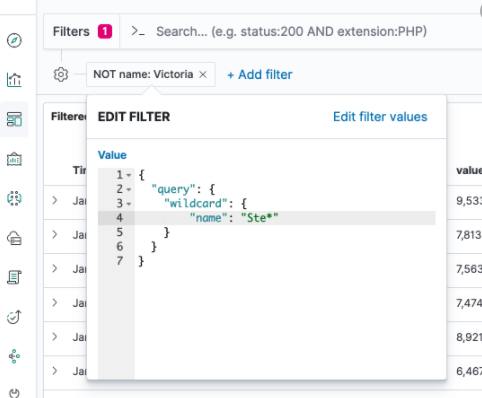
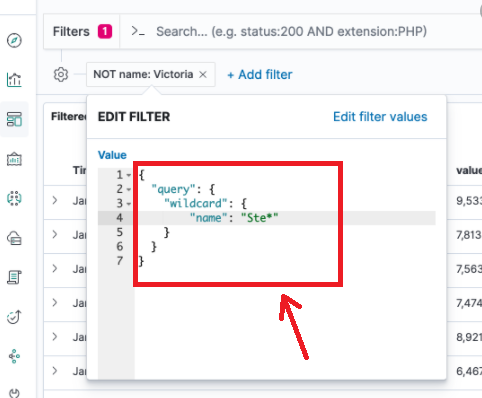
initial commit

Changed region(s): [[0.249, 0.392, 0.7158, 0.9045]]

diff --git a/README.md b/README.md
@@ -12,7 +12,7 @@ This helper tool polls for messages in a specified AWS SQS queue, filters these 
     - `QUEUE_VISIBILITY_TIMEOUT_SECONDS` integer, i.e `30` seconds of visibility timeout
     - `COMMON_SQS_AND_ELASTIC_KEY` string, for example `PersonId` ( This is a key in your data that has to be common for the SQS message body and the indexed field in your Elasticsearch index )
 4) Run the `__main__.py` script
-5) Use the result JSON in your Kibana search filter DSL query ![](/docs/img/DSL_query_filter.PNG)
+5) Paste the returned JSON in your Kibana search filter DSL query "EDIT FILTER" input  ![](/docs/img/DSL_query_filter.PNG)
 
 # Useful links:
 - https://boto3.amazonaws.com/v1/documentation/api/latest/reference/services/sqs.html
